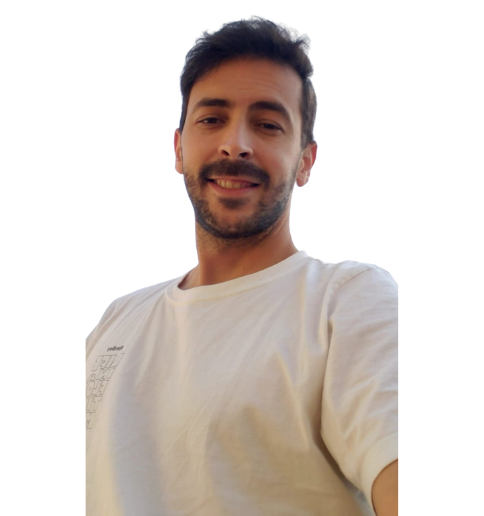
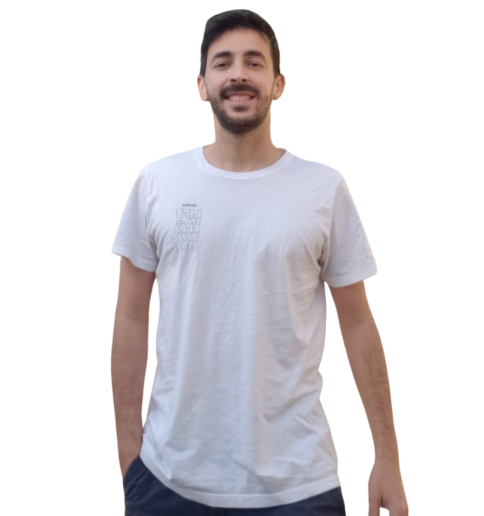
project section update

diff --git a/assets/css/styles.css b/assets/css/styles.css
@@ -346,6 +346,15 @@ display: none;
   transition: .3s;
 }
 
+.button--white{
+  background-color: #fff;
+  color: var(--first-color);
+}
+
+.button--white:hover{
+  background-color: #fff;
+}
+
 .button--flex{
   display: inline-flex;
   align-items: center;
@@ -768,7 +777,33 @@ display: none;
 }
 
 /*==================== PROJECT IN MIND ====================*/
+.project{
+  text-align: center;
+}
 
+.project_bg{
+  background-color: var(--first-color-second);
+  padding-top: 3rem;
+}
+
+.project_title{
+  font-size: var(--h2-font-size);
+  margin-bottom: var(--mb-0-75);
+}
+
+.project_description{
+  margin-bottom: var(--mb-1-5);
+}
+
+.project_title,
+.project_description{
+  color: #fff;
+}
+
+.project_img{
+  width: 232px;
+  justify-self: center;
+}
 
 /*==================== TESTIMONIAL ====================*/
 
